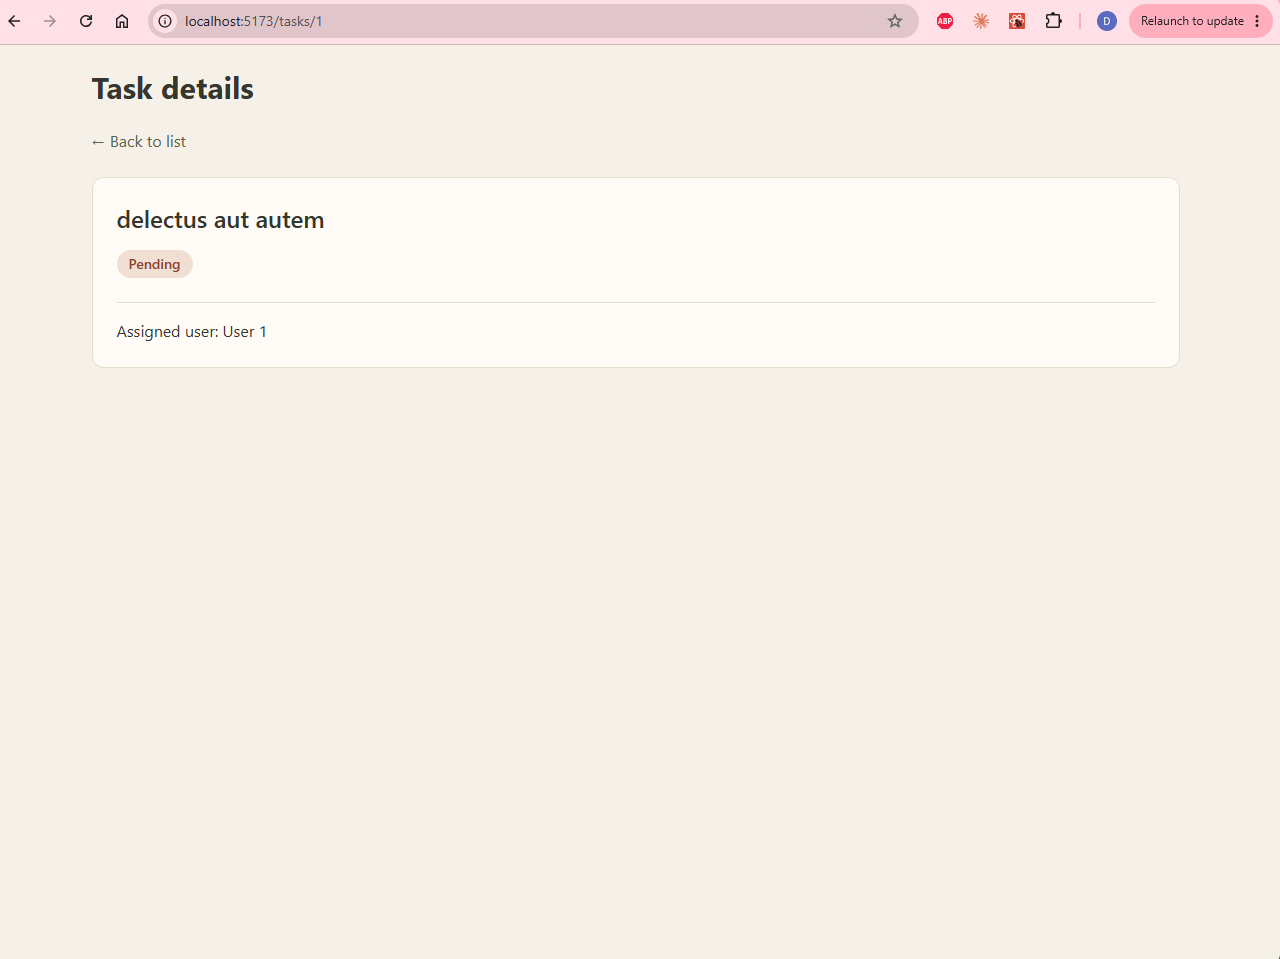
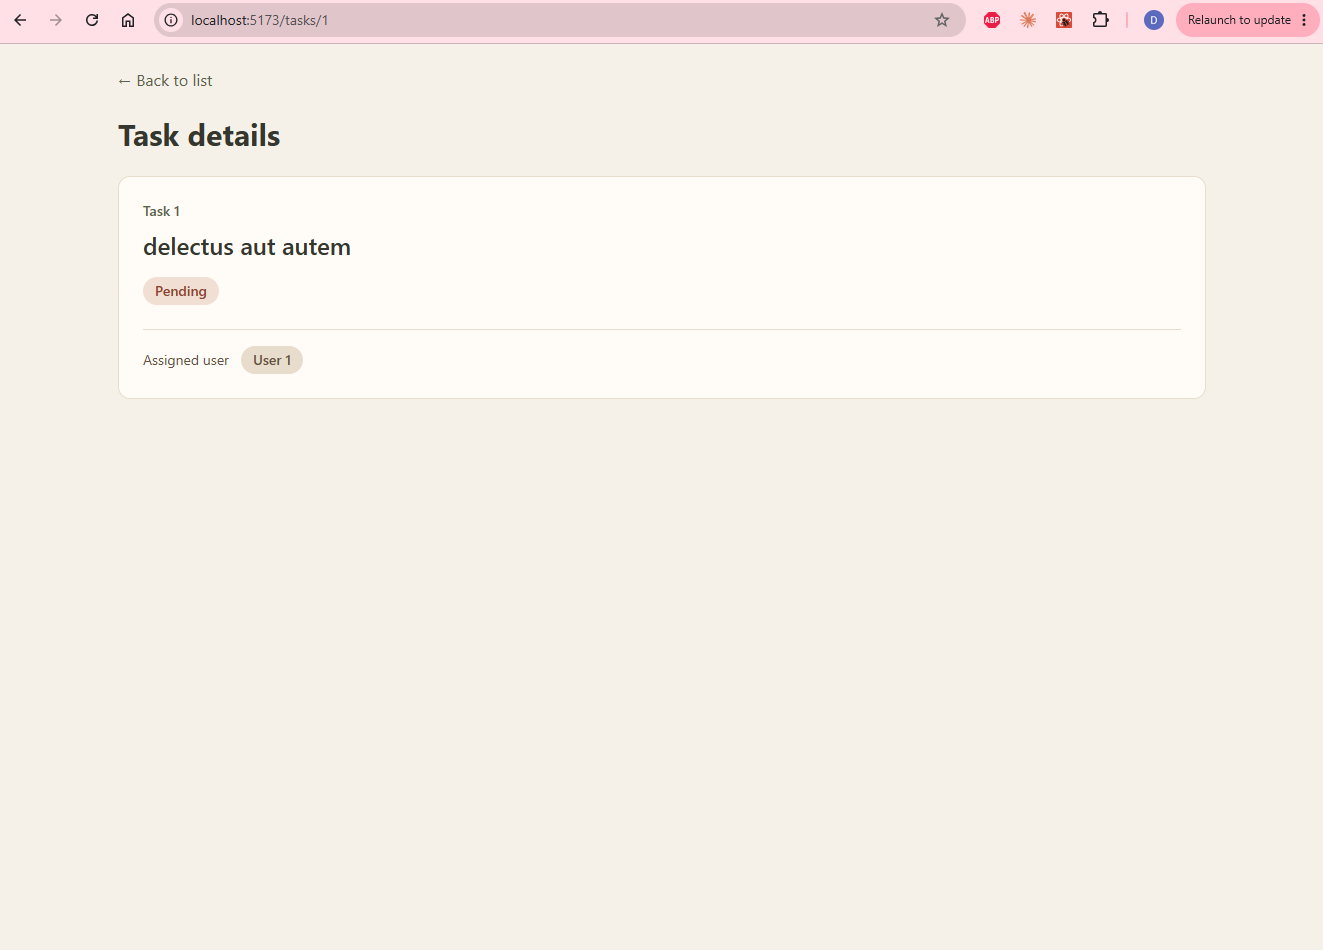
Polish task details layout

diff --git a/src/components/TaskDescription.jsx b/src/components/TaskDescription.jsx
@@ -48,7 +48,12 @@ function TaskDescription() {
                 >
                     {task.completed ? "Completed" : "Pending"}
                 </p>
-                <p className="mt-6 border-t border-[#E8DDCC] pt-4">Assigned user: User {task.userId}</p>
+                <p className="mt-6 flex items-center gap-3 border-t border-[#E8DDCC] pt-4">
+                    <span className="text-sm text-[#66513F]">Assigned user</span>
+                    <span className="rounded-full bg-[#E8DDCC] px-3 py-1 text-sm font-semibold text-[#66513F]">
+                        User {task.userId}
+                    </span>
+                </p>
             </article>
         )}
 
